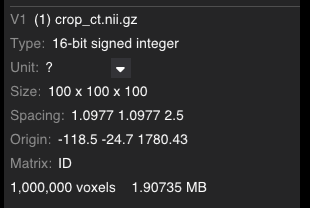
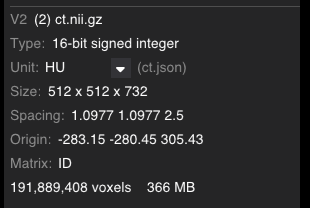
Add CLI documentation and enhance screenshot generation for command-line examples

diff --git a/scripts/generate_doc_screenshots.py b/scripts/generate_doc_screenshots.py
@@ -148,11 +148,36 @@ def generate_doc_02_screenshots(img_dir: Path):
     from vvv.ui.ui_sequences import create_boot_sequence
 
     tasks = [
-        {"base": "data/crop_ct.nii.gz", "base_cmap": None, "fusion": None, "labels": []},
         {"base": "data/spect.nii.gz", "base_cmap": None, "fusion": None, "labels": []},
+        {"base": "data/ct.nii.gz", "base_cmap": None, "fusion": None, "labels": []},
     ]
     boot_gen = create_boot_sequence(gui, ctrl, tasks)
     list(boot_gen)
+
+    # Set layout: ct.nii.gz on V1 and V2 (top), spect.nii.gz on V3 and V4 (bottom)
+    ctrl.layout["V1"] = "2"
+    ctrl.layout["V2"] = "2"
+    ctrl.layout["V3"] = "1"
+    ctrl.layout["V4"] = "1"
+    gui.set_context_viewer(ctrl.viewers["V2"])
+
+    import numpy as np
+    from vvv.core.view_state import ViewMode
+
+    vs_ct = ctrl.view_states["2"]
+    vs_ct.update_crosshair_from_phys(np.array([-32.9, -16.6, 1565.5]))
+
+    # Set camera zoom & pan to show the full body sagittal view like user example
+    vs_ct.camera.zoom[("V2", ViewMode.SAGITTAL)] = 2.94
+    vs_ct.camera.zoom[ViewMode.SAGITTAL] = 2.94
+    vs_ct.camera.pan[("V2", ViewMode.SAGITTAL)] = [-20.0, 180.0]
+    vs_ct.camera.pan[ViewMode.SAGITTAL] = [-20.0, 180.0]
+
+    # Clean up status message and any landmarks for clean doc screenshot
+    ctrl.status_message = None
+    for p in gui.plugins:
+        if hasattr(p, "landmarks"):
+            p.landmarks.clear()
 
     if sys.platform == "darwin":
         from Cocoa import NSApplication
@@ -163,6 +188,7 @@ def generate_doc_02_screenshots(img_dir: Path):
     for _ in range(50):
         ctrl.tick()
         gui._refresh_all_ui_panels()
+        gui.update_sidebar_crosshair(gui.context_viewer)
         dpg.render_dearpygui_frame()
 
     main_w = app.windows()[0]
@@ -216,11 +242,90 @@ def generate_doc_02_screenshots(img_dir: Path):
     dpg.destroy_context()
 
 
+def generate_doc_03_screenshots(img_dir: Path):
+    """Generates screenshots for doc_03 (CLI examples: fusion overlay, label maps)."""
+    from vvv.cli import parse_cli_arguments
+    from vvv.ui.ui_sequences import create_boot_sequence
+
+    dpg.create_context()
+    ctrl = Controller()
+    ctrl.use_history = False
+    for tag in ["V1", "V2", "V3", "V4"]:
+        ctrl.viewers[tag] = SliceViewer(tag, ctrl)
+
+    gui = MainGUI(ctrl)
+    ctrl.gui = gui
+
+    vp_title = "VVV CLI Doc Session"
+    dpg.create_viewport(title=vp_title, width=1280, height=800, x_pos=50, y_pos=50)
+    dpg.setup_dearpygui()
+    dpg.show_viewport()
+    dpg.set_primary_window("PrimaryWindow", True)
+    gui.on_window_resize()
+
+    tasks = parse_cli_arguments(["data/ct.nii.gz,data/spect.nii.gz,hot,0.6", "+", "data/Sphere_1.nii.gz"])
+    boot_gen = create_boot_sequence(gui, ctrl, tasks)
+    for _ in boot_gen:
+        ctrl.tick()
+        dpg.render_dearpygui_frame()
+
+    from vvv.core.view_state import ViewMode
+    import numpy as np
+
+    vs_ct = ctrl.view_states["2"]
+    vs_ct.update_crosshair_from_phys(np.array([-32.9, -16.6, 1690.0]))
+    vs_ct.camera.zoom[("V2", ViewMode.SAGITTAL)] = 2.94
+    vs_ct.camera.zoom[ViewMode.SAGITTAL] = 2.94
+    vs_ct.camera.pan[("V2", ViewMode.SAGITTAL)] = [-20.0, 180.0]
+    vs_ct.camera.pan[ViewMode.SAGITTAL] = [-20.0, 180.0]
+
+    ctrl.status_message = None
+
+    if sys.platform == "darwin":
+        from Cocoa import NSApplication
+
+        app = NSApplication.sharedApplication()
+        app.activateIgnoringOtherApps_(True)
+
+    for _ in range(50):
+        ctrl.tick()
+        gui._refresh_all_ui_panels()
+        gui.update_sidebar_crosshair(gui.context_viewer)
+        dpg.render_dearpygui_frame()
+
+    main_w = app.mainWindow() or app.keyWindow()
+    if main_w is None or main_w.frame().size.width < 800:
+        for w in app.windows():
+            if w.frame().size.width >= 1000 and w.isVisible():
+                main_w = w
+                break
+
+    main_w.makeKeyAndOrderFront_(None)
+    content_rect = main_w.contentRectForFrameRect_(main_w.frame())
+    scale = main_w.backingScaleFactor()
+    screen_h = main_w.screen().frame().size.height
+
+    win_x = content_rect.origin.x
+    win_y = screen_h - (content_rect.origin.y + content_rect.size.height)
+
+    bbox_full = (
+        int(round(win_x * scale)),
+        int(round(win_y * scale)),
+        int(round((win_x + content_rect.size.width) * scale)),
+        int(round((win_y + content_rect.size.height) * scale)),
+    )
+    im_full = ImageGrab.grab(bbox=bbox_full)
+    im_full.save(img_dir / "doc_03_cli_fusion.png")
+    print(f"Generated: doc_03_cli_fusion.png ({im_full.size[0]}x{im_full.size[1]})")
+
+    dpg.destroy_context()
+
+
 def main():
     parser = argparse.ArgumentParser(description="Generate VVV documentation screenshots.")
     parser.add_argument(
         "--target",
-        choices=["all", "help_buttons", "doc_02"],
+        choices=["all", "help_buttons", "doc_02", "doc_03"],
         default="all",
         help="Target screenshot(s) to generate (default: all)",
     )
@@ -236,6 +341,9 @@ def main():
 
     if args.target in ("all", "doc_02"):
         generate_doc_02_screenshots(img_dir)
+
+    if args.target in ("all", "doc_03"):
+        generate_doc_03_screenshots(img_dir)
 
 
 if __name__ == "__main__":

diff --git a/user_docs/doc_03_command_line.md b/user_docs/doc_03_command_line.md
@@ -1,0 +1,132 @@
+# Command-Line Interface (CLI)
+
+VVV provides a rich command-line interface to launch directly into multi-image layouts, fusion overlays, synchronization groups, label maps, and workspaces.
+
+![VVV launched via CLI with fused overlay and ROI](images/doc_03_cli_fusion.png)
+
+```bash
+vvv data/ct.nii.gz,data/spect.nii.gz,hot,0.6 + data/Sphere_1.nii.gz
+```
+
+---
+
+## Basic Usage
+
+Launch with one or more images:
+
+```bash
+# Open a single image
+vvv patient_ct.nii.gz
+
+# Open multiple images in side-by-side viewports
+vvv ct.nii.gz spect.nii.gz dose.nii.gz
+```
+
+---
+
+## Overlay & Fusion Syntax
+
+Attach an overlay to a base image using a **comma-separated syntax**:
+
+```
+vvv <base>[,<overlay>][,<colormap>][,<opacity>][,<min_threshold>]
+```
+
+| Field | Description | Default / Options |
+| :--- | :--- | :--- |
+| **base** | Base image path | Required |
+| **overlay** | Fused overlay image path | Optional |
+| **colormap** | Overlay colormap | `Jet`, `Hot`, `Cold`, `Dosimetry`, `Grayscale`, `Segmentation`, `Reg` |
+| **opacity** | Blending alpha ($0.0$ to $1.0$) | `0.5` |
+| **min_threshold** | Clip overlay below this intensity | None |
+
+### Examples
+
+```bash
+# Standard alpha fusion with default Jet colormap (opacity 0.5)
+vvv ct.nii.gz,spect.nii.gz
+
+# Fusion with Hot colormap at 70% opacity
+vvv ct.nii.gz,spect.nii.gz,hot,0.7
+
+# Clip low background intensities (threshold at 150)
+vvv ct.nii.gz,spect.nii.gz,hot,0.6,150
+
+# Checkerboard registration mode (linked W/L, grayscale)
+vvv fixed.nii.gz,moving.nii.gz,reg
+
+# Apply a colormap to the base image without an overlay (empty second slot)
+vvv spect.nii.gz,,hot
+```
+
+---
+
+## Multi-Viewer Synchronization
+
+Link viewports together at launch:
+
+```bash
+# Synchronize all images spatially (pan, zoom, slice crosshair)
+vvv ct.nii.gz spect.nii.gz --sync      # or -s
+
+# Synchronize Window/Level contrast across all images
+vvv mri_t1.nii.gz mri_t2.nii.gz --linkall-wl    # or -lw
+
+# Synchronize both spatial navigation and Window/Level
+vvv ct_pre.nii.gz ct_post.nii.gz -s -lw
+
+# Assign specific synchronization groups (group_id:image)
+vvv 1:ct.nii.gz 1:spect.nii.gz 2:mr1.nii.gz 2:mr2.nii.gz
+```
+
+---
+
+## Label Maps & ROIs
+
+Attach binary or multi-label segmentations to a base volume using `+`:
+
+```bash
+# Load label map as colored ROI contours on the CT volume
+vvv ct.nii.gz + organs.nii.gz
+
+# Combine fusion overlay and multiple ROI masks
+vvv ct.nii.gz,spect.nii.gz,hot,0.6 + tumor.nii.gz + bladder.nii.gz
+```
+
+---
+
+## 4D Sequences & Dynamic Series
+
+Stack multiple 3D timeframes into an interactive 4D volume:
+
+```bash
+# Explicit 4D sequence tag
+vvv 4D phase0.nii.gz phase1.nii.gz phase2.nii.gz phase3.nii.gz
+
+# Shell glob (automatically grouped if volumes share identical dimensions and spacing)
+vvv frame_*.nii.gz
+```
+
+---
+
+## Workspaces & Saved Sessions
+
+Restore a complete workspace session (`.vvw`) saved from a previous run:
+
+```bash
+vvv my_analysis.vvw
+```
+
+---
+
+## Command Options Reference
+
+| Flag | Short | Description |
+| :--- | :--- | :--- |
+| `--sync` | `-s` | Enable spatial synchronization across all images at startup |
+| `--linkall-wl` | `-lw` | Enable Window/Level synchronization across all images |
+| `--no-history` | `-nh` | Ignore cached camera/contrast history and launch with defaults |
+| `--fast-gl` / `--no-fast-gl` | | Toggle hardware OpenGL nearest-neighbor texture filtering |
+| `--debug` | | Display live FPS counter and performance graph overlay |
+| `--help` | `-h` | Display the built-in CLI help text |
+
